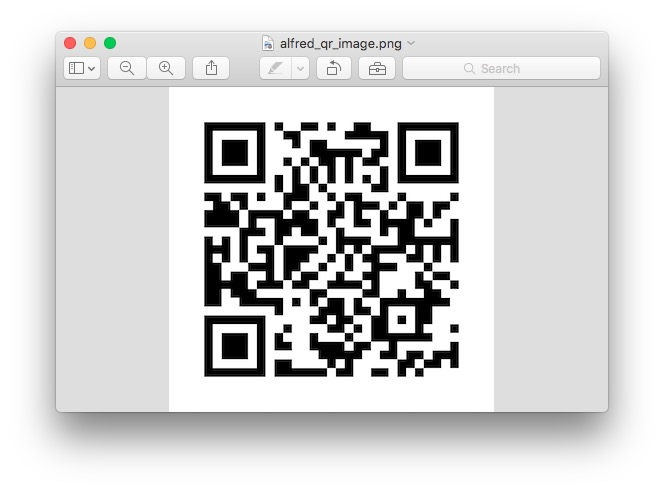
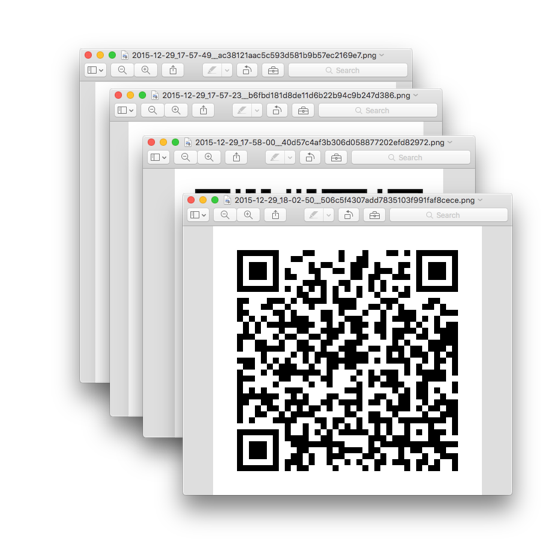
Add support to create multiple QR code, hotkey to open folder

diff --git a/source/qr_code.py b/source/qr_code.py
@@ -1,28 +1,51 @@
 #!/usr/bin/env python
 # -*- coding: utf-8 -*-
-import qrcode
 import sys
 import os
 import commands
+import time
+import datetime
+import qrcode
+import hashlib
 
-input_text = sys.argv[1]
-qr = qrcode.QRCode(
-    version=1,
-    error_correction=qrcode.constants.ERROR_CORRECT_L,
-    box_size=10,
-    border=4,
-)
-qr.add_data(input_text)
-qr.make(fit=True)
+# qr code file name
+def qrcode_file_name(input_text):
+    # create file name, time + qrcode content
+    timestamp = datetime.datetime.fromtimestamp(time.time()).strftime('%Y-%m-%d_%H-%M-%S')
+    md5_string = hashlib.md5(input_text).hexdigest()
+    return timestamp + '__' + md5_string + '.png'
 
-# get mac temp folder
-cmd = 'echo $TMPDIR'
-mac_temp_folder = commands.getstatusoutput(cmd)
-qr_code_image_path = mac_temp_folder[1] + 'alfred_qr_image.png'
+# qr code file path
+def qrcode_file_path(text):
+    cmd = 'echo $TMPDIR'
+    mac_temp_folder = commands.getstatusoutput(cmd)
+    qr_code_folder = mkdir_qrcode_folder(mac_temp_folder[1] + 'alfred_qr_code/')
+    return qr_code_folder + qrcode_file_name(text)
 
-# save QRCode
-img = qr.make_image()
-img.save(qr_code_image_path)
 
-open_cmd = 'open'+' '+ qr_code_image_path
-os.system(open_cmd)
+def mkdir_qrcode_folder(folder):
+    if not os.path.exists(folder):
+        os.makedirs(folder)
+        return folder
+    return folder
+
+def create_qrcode(content, file_path):
+    qr = qrcode.QRCode(
+        version=1,
+        error_correction=qrcode.constants.ERROR_CORRECT_L,
+        box_size=10,
+        border=4,
+    )
+    qr.add_data(content)
+    qr.make(fit=True)
+
+    image = qr.make_image()
+    image.save(file_path)
+
+if __name__ == '__main__':
+    input_text = sys.argv[1]
+    file_path = qrcode_file_path(input_text)
+    create_qrcode(input_text, file_path)
+
+    preview_cmd = 'open'+' '+ '"' + file_path + '"'
+    os.system(preview_cmd)

diff --git a/README.md b/README.md
@@ -12,12 +12,13 @@ A QRcode generator based on [python-qrcode](https://github.com/lincolnloop/pytho
 ##Usage:
 1. Type `qr text`;
 2. Define a hotkey, select some text, press the hotkey;
+3. Type `qrfolder` to open the QR code image folder. The image's name is created by your time and content's md5 value.
 
 ##Output:
 1. The QRCode image your generate will be open with Preview application.
 ![demo](./demo.png)
-2. You can find the recently QRCode image path by this command in ternimal:
-```
-echo $TMPDIR'alfred_qr_image.png'
-```
+
+##Todo:
+- Create a txt file to collect the QR code content.
+- Hotkey to open the txt file.
 
